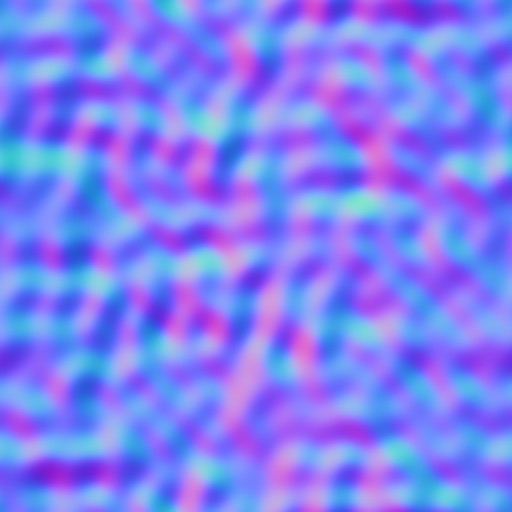
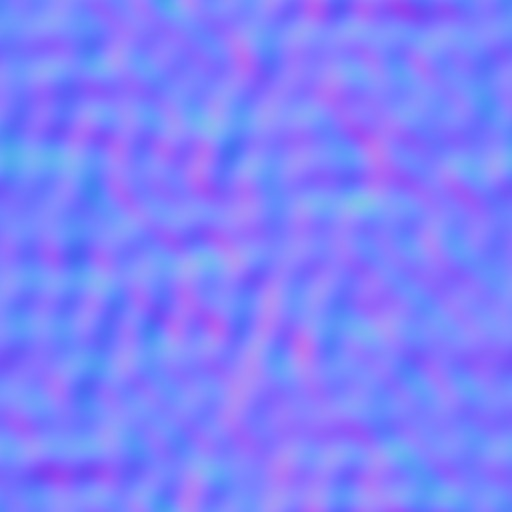
Water: calm Thames for the hero shot (gentler normal map, broad slow swell, distortion 0.12, softer reflection, green-grey)

diff --git a/web/src/scene/Water.jsx b/web/src/scene/Water.jsx
@@ -20,8 +20,8 @@ function Surface({ sun }) {
       textureHeight: 1024,
       waterNormals: normals,
       sunColor: SUN_COLOR,
-      waterColor: 0x10302b, // the Thames is a muddy green-brown, not a pool blue
-      distortionScale: 0.6,
+      waterColor: 0x2c3b34, // the Thames is a muddy green-grey, not a pool blue
+      distortionScale: 0.12, // reflections wobble, they do not shatter
       alpha: 1,
       fog: !!fog,
     })
@@ -29,11 +29,12 @@ function Surface({ sun }) {
     w.rotation.x = -Math.PI / 2
     // the river surface, in the bridge frame (y = 0 is the deck)
     w.position.set((minE + maxE) / 2 - oE, meta.water_h - meta.origin_h, oN - (minN + maxN) / 2)
-    w.material.uniforms.size.value = 30 // fine ripples read as a wide river from the air
+    w.material.uniforms.size.value = 4 // broad, slow swell: fine ripples alias into grey noise near the camera
     // the stock shader mirrors a bright sky into a white sheet; a murky tidal river reflects far less
     w.material.fragmentShader = w.material.fragmentShader
       .replace('float rf0 = 0.3;', 'float rf0 = 0.04;')
-      .replace('reflectionSample * 0.9', 'reflectionSample * 0.55')
+      .replace('reflectionSample * 0.9', 'reflectionSample * 0.4')
+      .replace('noise.xzy * vec3( 1.5, 1.0, 1.5 )', 'noise.xzy * vec3( 0.35, 1.0, 0.35 )') // calm water: flatten the summed normals
     w.receiveShadow = true
     return w
   }, [meta, fog])

diff --git a/scripts/terrain/build.py b/scripts/terrain/build.py
@@ -186,7 +186,8 @@ def water_normals(path, n=512):
             continue
         hgt += np.sin(kx * x + ky * y + rng.uniform(0, 2 * np.pi)) / np.hypot(kx, ky) ** 1.2
     gy, gx = np.gradient(hgt)
-    nrm = np.dstack([-gx, -gy, np.full_like(hgt, 0.08)])
+    flat = np.percentile(np.hypot(gx, gy), 95) / 0.35  # gentle: 95% of the surface tilts under ~19 degrees
+    nrm = np.dstack([-gx, -gy, np.full_like(hgt, flat)])
     nrm /= np.linalg.norm(nrm, axis=2, keepdims=True)
     Image.fromarray(((nrm * 0.5 + 0.5) * 255).astype(np.uint8)).save(path, quality=90)
 
